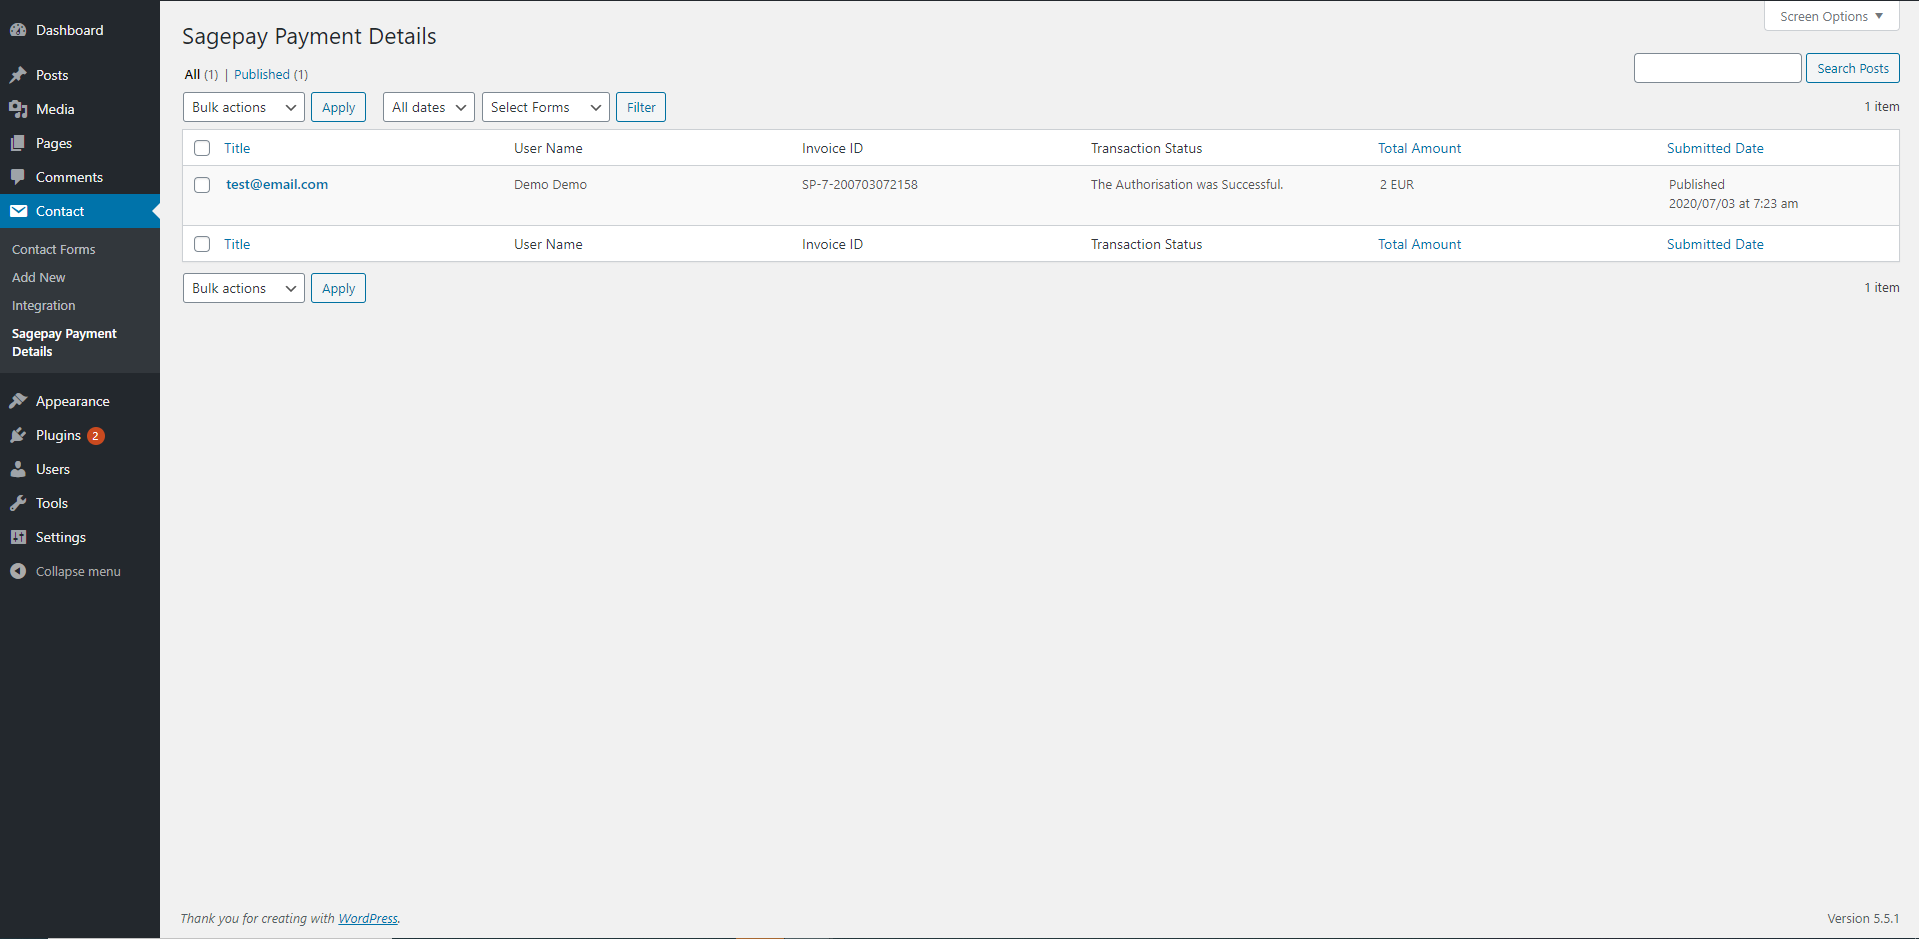
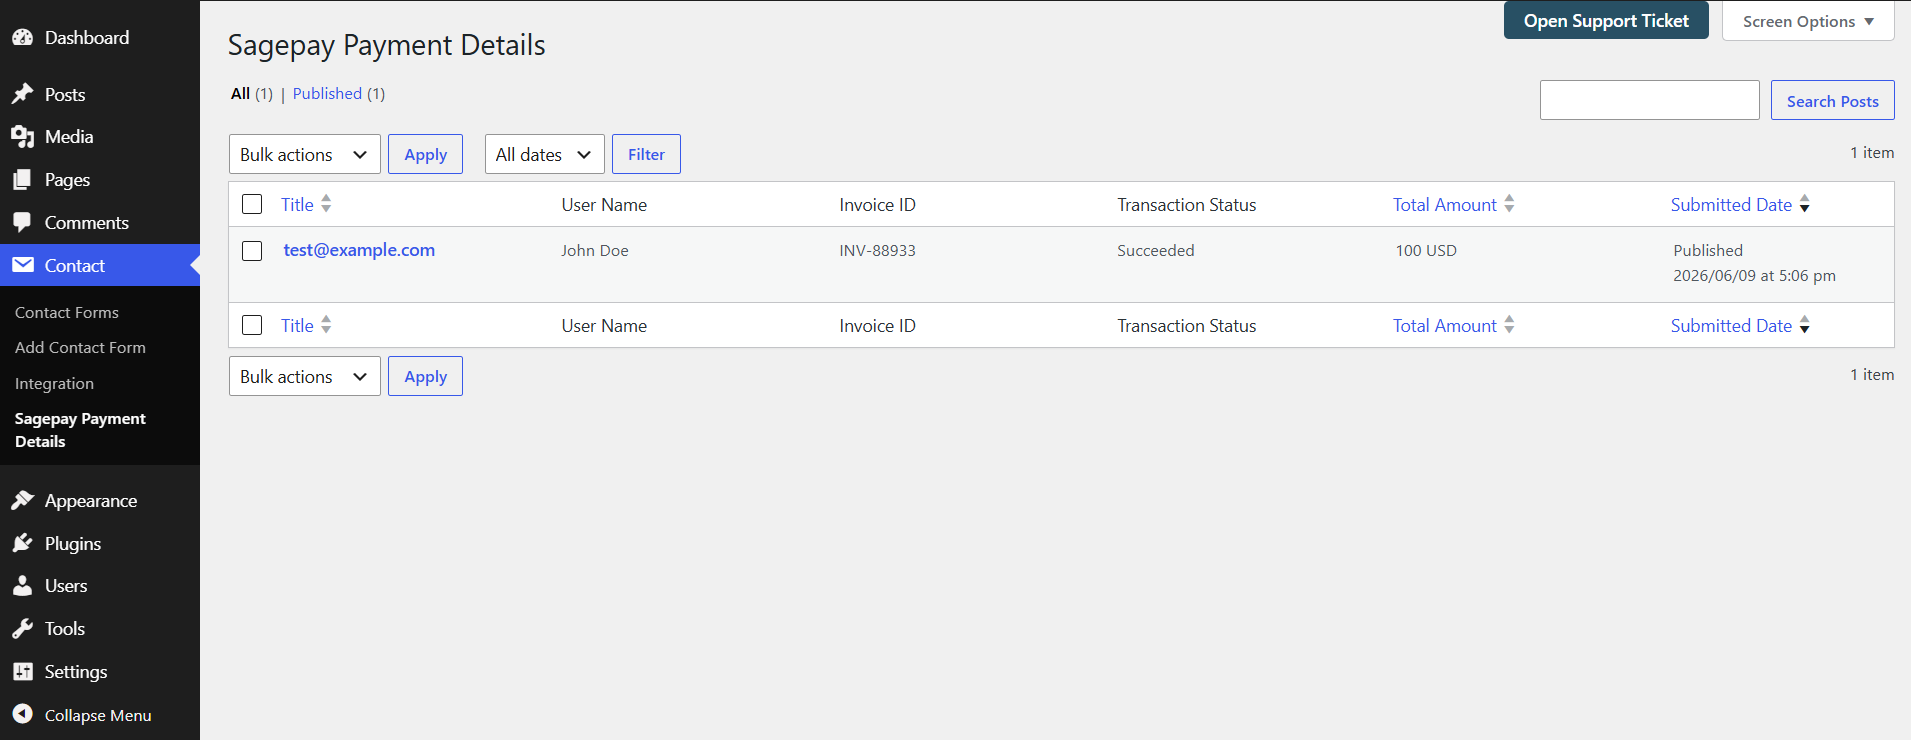
Add buttong

diff --git a/accept-sagepay-payments-using-contact-form-7.php b/accept-sagepay-payments-using-contact-form-7.php
@@ -3,7 +3,7 @@
 * Plugin Name: Accept SagePay Payments Using Contact Form 7
 * Plugin URL: https://wordpress.org/plugins/accept-sagepay-payments-using-contact-form-7/
 * Description: This plugin will integrate Sagepay payment gateway for making your payments through Contact Form 7.
-* Version: 2.2
+* Version: 2.3
 * Author: ZealousWeb
 * Author URI: https://www.zealousweb.com
 * Developer: The Zealousweb Team
@@ -23,11 +23,11 @@ if ( !defined( 'ABSPATH' ) ) exit;
 * Basic plugin definitions
 *
 * @package Accept Sagepay Payments using Contact Form 7
-* @since 2.2
+* @since 2.3
 */
 
 if ( !defined( 'CFSPZW_VERSION' ) ) {
-	define( 'CFSPZW_VERSION', '2.2' ); // Version of plugin
+	define( 'CFSPZW_VERSION', '2.3' ); // Version of plugin
 }
 
 if ( !defined( 'CFSPZW_FILE' ) ) {
